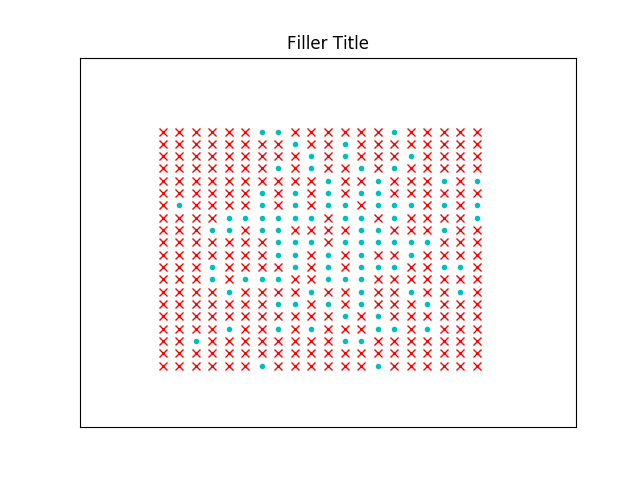
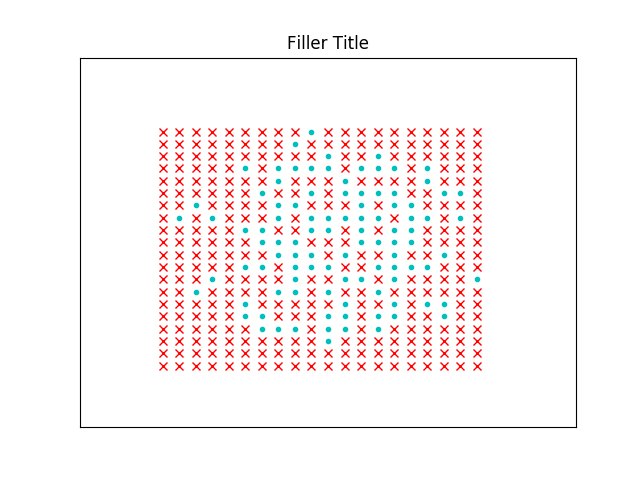
Diffusion Example

diff --git a/Cellular.py b/Cellular.py
@@ -4,19 +4,19 @@ import errno
 import os
 import random
 
-class Automata:
+class Automata:               # Decided to use a class so that variables defined in one function can be accessed from all others without having to pass them.
     def __init__(self):
-        self.dim = 20
-        self.lattice = np.zeros((self.dim, self.dim), dtype=np.float64)
-        self.newsites = np.zeros((self.dim, self.dim), dtype=np.float64)
-        self.visualisation_output = '/Users/DanLenton/Downloads/PHYS379/Pictures'
-        self.Totaltime = 10
+        self.dim = 20         # Dimension of a square lattice
+        self.lattice = np.zeros((self.dim, self.dim), dtype=np.float64)     # Defines an empty square lattice
+        self.newsites = np.zeros((self.dim, self.dim), dtype=np.float64)    # Introduced so changes can be made, but earlier changes in each time step do not affect the others.
+        self.visualisation_output = '/Users/DanLenton/Downloads/PHYS379/Pictures'   # Change to route where you want the pictures to be saved
+        self.Totaltime = 20     # Change to time that lattice is run for
         self.time = 0
-        self.nearestneighbourcoordinates = [[0,1],[0,-1],[1,0],[-1,0],[1,-1],[-1,1],[1,1],[-1,-1]]
+        self.nearestneighbourcoordinates = [[0,1],[0,-1],[1,0],[-1,0],[1,-1],[-1,1],[1,1],[-1,-1]]  #Defines the locations relative to each site that affect each site
 
 
-    def lattice_input(self):
-        for i in range(self.dim):
+    def lattice_input(self):        # Function sets up the initial configuration of the lattice
+        for i in range(self.dim):       # Iterating over each lattice site
             for j in range(self.dim):
                 if (i < 15) and (i >= 5) and (j < 15) and (j >= 5):  # For a central square block
                 #if (i % 2 == 1) and (j % 2 == 1):                      # For an alternating grid
@@ -25,10 +25,10 @@ class Automata:
                     self.newsites[i,j] = 1
         self.generate_lattice()
 
-    def evolution(self):
+    def evolution(self):                        # Defines how lattice evolves at each time step
         self.newsites = np.copy(self.lattice)
-        newfilled = []
-        for i in range(self.dim):
+        newfilled = []                          # List to record which sites become occupied upon evolution so they are not 'double occupied'
+        for i in range(self.dim):               # Iterating over each site in the lattice
             for j in range(self.dim):
                 neighbourcount = 0      # A simple model could depend on just the number of occupied neighbours
                 belowcount = 0          # Other models may depend on the j coordinate of the neighbours
@@ -36,13 +36,13 @@ class Automata:
                 abovecount = 0
                 straightbelowcount = 0
                 straightabovecount = 0
-                emptyneighbourlist = []
+                emptyneighbourlist = []     # A list in which to put the relative coordinates of all the empty sites surrounding a filled site
                 counter = 0
                 for element in self.nearestneighbourcoordinates:
                     a = self.lattice[(i + element[0]) % self.dim, (j + element[1]) % self.dim]  # Modulo self dim there to create periodic boundary conditions
-                    neighbourcount += a
+                    neighbourcount += a     # Sums the number of filled sites around a site
                     if a == 0 and self.lattice[i,j] == 1:
-                        emptyneighbourlist.append(element)
+                        emptyneighbourlist.append(element)  # Sums the number of empty sites around a filled site
                     if element[1] == -1:
                         belowcount += a
                     elif element[1] == 0:
@@ -54,10 +54,10 @@ class Automata:
                     if element[1] == 1 and element[0] == 0:
                         straightabovecount += a
                 if len(emptyneighbourlist) != 0:
-                    randcoordinate = random.randint(0,len(emptyneighbourlist) - 1)
-                    if [(i + emptyneighbourlist[randcoordinate][0]) % self.dim, (j + emptyneighbourlist[randcoordinate][1]) % self.dim] not in newfilled:
-                        self.newsites[i, j] = 0
-                        self.newsites[(i + emptyneighbourlist[randcoordinate][0]) % self.dim, (j + emptyneighbourlist[randcoordinate][1]) % self.dim] = 1
+                    randcoordinate = random.randint(0,len(emptyneighbourlist) - 1)  # Used to randomly select an empty site surrounding a filled site
+                    if [(i + emptyneighbourlist[randcoordinate][0]) % self.dim, (j + emptyneighbourlist[randcoordinate][1]) % self.dim] not in newfilled:   # Used to ensure that sites are not double filled
+                        self.newsites[i, j] = 0     # Emptying the filled site
+                        self.newsites[(i + emptyneighbourlist[randcoordinate][0]) % self.dim, (j + emptyneighbourlist[randcoordinate][1]) % self.dim] = 1   # Occupying the empty site
                         newfilled.append([(i + emptyneighbourlist[randcoordinate][0]) % self.dim, (j + emptyneighbourlist[randcoordinate][1]) % self.dim])
                 #if straightabovecount == 1 and straightbelowcount == 0:
                     #self.newsites[i,j] = 1
@@ -65,19 +65,19 @@ class Automata:
                     #self.newsites[i,j] = 0
         self.time += 1
         self.lattice = np.copy(self.newsites)
-        if self.time <= 10:
+        if self.time <= self.Totaltime: # Stops evolving once time limit is reached
             self.generate_lattice()
 
-    def generate_lattice(self):
+    def generate_lattice(self): # Produces a picture of the lattice using matplotlib.pyplot
 
         fig = pylab.figure()
-        for i in range(self.dim):
+        for i in range(self.dim):   # Iterating over every site in the lattice
             for j in range(self.dim):
                 a = self.lattice[i,j]
                 if a == 1:
-                    pylab.plot([i], [j], '.', color='c')
+                    pylab.plot([i], [j], '.', color='c')    # Occupied sites are blue circles
                 if a == 0:
-                    pylab.plot([i], [j], 'x', color='r')
+                    pylab.plot([i], [j], 'x', color='r')    # Unoccupied sites are blue circles
 
         axes = pylab.gca()
         axes.set_xlim([-5, 25])
@@ -87,10 +87,10 @@ class Automata:
         pylab.title('Filler Title')
         pylab.show
         self.check_path_exists(self.visualisation_output)
-        fig.savefig(self.visualisation_output + '/' + str(self.time) + 'picture.png')
+        fig.savefig(self.visualisation_output + '/' + str(self.time) + 'picture.png')   # Saves picture
         self.evolution()
 
-    def check_path_exists(self, path):
+    def check_path_exists(self, path):  # Function that checks the save path exists and if not, creates it
         try:
             os.makedirs(path)
         except OSError as exception:
